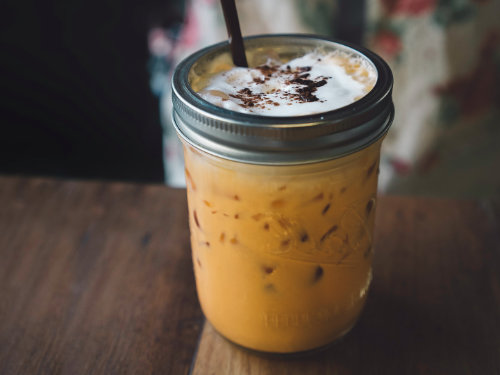
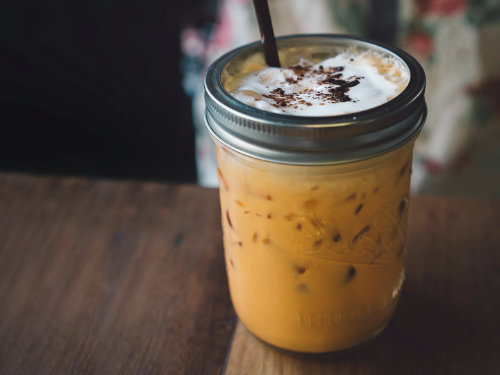
Update images

diff --git a/js/main.js b/js/main.js
@@ -16,12 +16,12 @@ var partyEvent = function () {
   if (isPartyTime === false) {
     isPartyTime = true;
     time = partyTime;
-    partyTimeButton.innerText = "Delicious tea!";
-    partyTimeButton.style.backgroundColor = "red";
+    partyTimeButton.innerText = "Thirst quenched";
+    partyTimeButton.style.backgroundColor = "#e3e";
   } else {
     isPartyTime = false;
     time = new Date().getHours();
-    partyTimeButton.innerText = "Thirst quenched!";
+    partyTimeButton.innerText = "Something delicious";
     partyTimeButton.style.backgroundColor = "333";
   }
 };
@@ -48,26 +48,33 @@ var updateClock = function () {
   var timeEventJS = document.getElementById("timeEvent");
   var messageText;
   var lolcat = document.getElementById("lolcat");
-  var image = "../img/tea-tray.png";
+  var image = "../img/tea-main.jpg";
 
   if (time == partyTime) {
-    messageText = "Tea party time.";
+    messageText =
+      "Try Thai tea! This decadant, sweet and creamy drink is a refreshing treat on hot days.";
     image = "../img/thai-tea.jpg";
   } else if (time == morningTime) {
-    messageText = "Morning tea time.";
+    messageText =
+      "It's time for white tea. The light and aromatic flavours are more pronounced with a fresh palette.";
     image = "../img/white-tea.jpg";
   } else if (time == lunchTime) {
-    messageText = "Lunch tea time.";
+    messageText =
+      "Drink black tea. It's rich flavor can cut through the greasiness of lunch and gives a quick energy boost.";
     image = "../img/black-tea.jpg";
   } else if (time == nightTime) {
-    messageText = "Night tea time.";
+    messageText =
+      "Sip chamomile tea. It will wind down and calm your senses after a long day.";
     image = "../img/chamomile-tea.jpg";
   } else if (time < noon) {
-    messageText = "Good morning.";
+    messageText =
+      "What tea should you drink this afternoon? Set your afteroon tea time to find out.";
   } else if (time > night) {
-    messageText = "Good evening.";
+    messageText =
+      "What tea should you drink this evening? Set your evening tea time to find out.";
   } else {
-    messageText = "Good afternoon.";
+    messageText =
+      "What tea should you drink this morning? Set your morning tea time to find out.";
   }
 
   timeEventJS.innerText = messageText;
@@ -96,7 +103,8 @@ var showCurrentTime = function () {
   if (seconds < 10) {
     seconds = "0" + seconds;
   }
-  var clockTime = hours + ":" + minutes + ":" + seconds + " " + meridian;
+  var clockTime =
+    "It's" + " " + hours + ":" + minutes + ":" + seconds + " " + meridian;
   clock.innerText = clockTime;
 };
 

diff --git a/index.html b/index.html
@@ -8,8 +8,8 @@
 
   <body>
       <header>
-        <span id="clock">It's 10:10 AM</span>
-        <h4>What tea should I drink?</h4>
+        <span id="clock"></span>
+        <h4>Time for tea</h4>
         <div class="seperator-line"></div>
       </header>
     
@@ -19,7 +19,7 @@
           <div class="tea-image-container">
             <img
               id="lolcat"
-              src="img/tea-tray.png"
+              src="img/tea-main.jpg"
               alt="Picnic spread with black tea in a jug and empty tea cup on a tray"
             />
           </div>
@@ -91,7 +91,7 @@
           </article>
           
           <article>
-            <p>Set night tea time</p>
+            <p>Set evening tea time</p>
             <select id="nightTimeSelector">
               <option value="1">1 AM - 2AM</option>
               <option value="2">2 AM - 3AM</option>
@@ -120,7 +120,7 @@
             </select>
           </article>
           
-          <button id="partyTimeButton">Feeling tea-riffic!</button>
+          <button id="partyTimeButton">Something delicious</button>
         </div>
       </section>
     </main>
